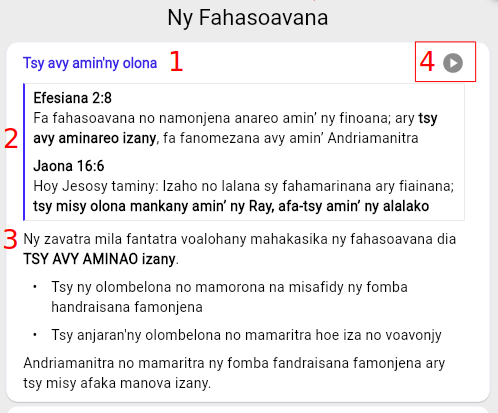
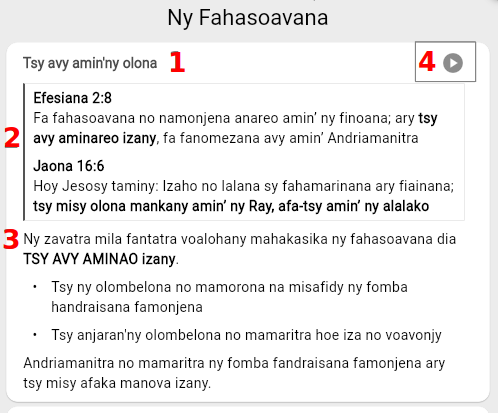
Help images updated

diff --git a/lib/ui/screens/help.dart b/lib/ui/screens/help.dart
@@ -25,27 +25,27 @@ class HelpScreen extends StatelessWidget {
       _HelpItem(
         appTexts.helpLoginTitle,
         appTexts.helpLoginDescription,
-        'images/help-login.png',
+        'assets/images/help-login.png',
       ),
       _HelpItem(
         appTexts.helpHomeTitle,
         appTexts.helpHomeDescription,
-        'images/help-home.png',
+        'assets/images/help-home.png',
       ),
       _HelpItem(
         appTexts.helpTeachingSummaryTitle,
         appTexts.helpTeachingSummaryDescription,
-        'images/help-teaching.png',
+        'assets/images/help-teaching.png',
       ),
       _HelpItem(
         appTexts.helpChapterTitle,
         appTexts.helpChapterDescription,
-        'images/help-chapter.png',
+        'assets/images/help-chapter.png',
       ),
       _HelpItem(
         appTexts.helpQuizTitle,
         appTexts.helpQuizDescription,
-        'images/help-quiz.png',
+        'assets/images/help-quiz.png',
       ),
     ];
     return AppContainer(

diff --git a/lib/ui/widgets/h2.dart b/lib/ui/widgets/h2.dart
@@ -11,7 +11,10 @@ class ScreenH2 extends StatelessWidget {
   Widget build(BuildContext context) {
     return Text(
       title,
-      style: Theme.of(context).textTheme.titleMedium?.copyWith(color: color),
+      style: Theme.of(context).textTheme.titleMedium?.copyWith(
+            color: color,
+            fontWeight: FontWeight.bold,
+          ),
       key: textKey,
     );
   }
